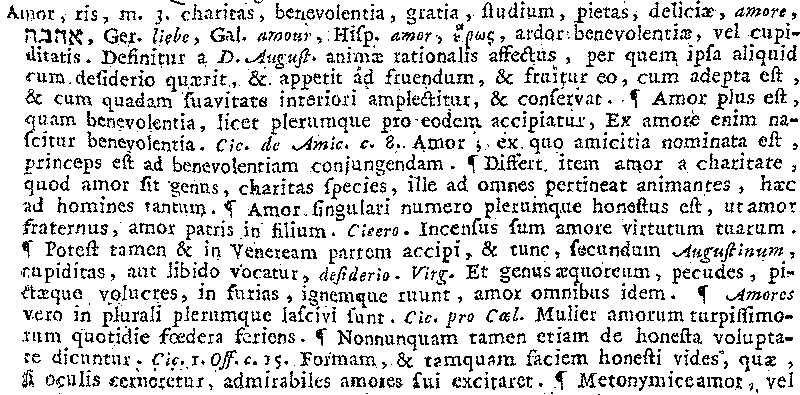
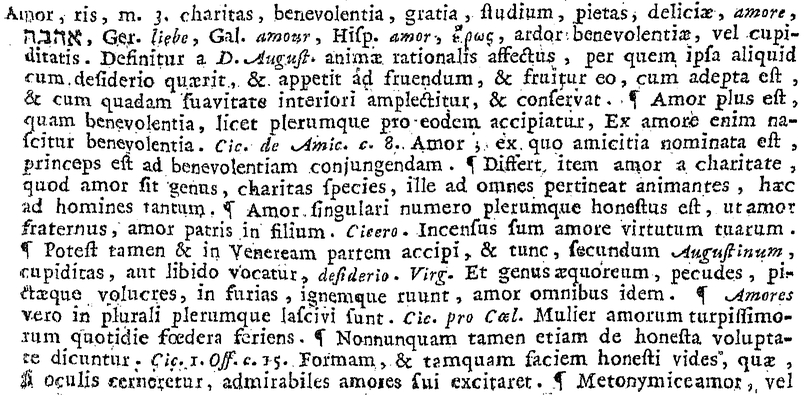
Reyher1712 v0.4 & Gallicciolli1778 v1.2"

diff --git a/_dictionaries/Gallicciolli1778.md b/_dictionaries/Gallicciolli1778.md
@@ -4,6 +4,7 @@ author: Gallicciolli
 year: 1778
 tags: [Latin]
 nickname: Gallicciolli1778
+comment: page index
 categories: [latin]
 ---
 # {{ page.title }}, {{ page.author }} ({{ page.year }})
@@ -15,7 +16,7 @@ Additional information about this edition can be found on the [Textkit website][
 
 ## Download
 
-Current version is [v1.1 (October 31, 2020)][1]. This format is only compatible with desktop GoldenDict.
+[Download][2] files compiled for dictionary shells. This format is only compatible with desktop GoldenDict.
 
 
 ## Exemplum
@@ -26,7 +27,7 @@ Current version is [v1.1 (October 31, 2020)][1]. This format is only compatible 
 # Sources
 
 1. Facciolati, Jacobo; Gallicciolli, Giovanni Battista. _Calepinus septem linguarum, hoc est Lexicon latinum variarum linguarum interpretatione adjecta, ad usum Seminarii pluries emendatum, et auctum._ Ed. novissima. Venice, 1778. URL: <https://digibug.ugr.es/handle/10481/23367>.
-1. Page index and images were extracted from the PDF published by [Le Cercle latin de la Nouvelle-France][11].
+1. Page index and images were extracted from the PDF published on [Le Cercle latin de la Nouvelle-France][11].
 
 
 ## Usage guidelines
@@ -36,11 +37,13 @@ Add file `index.html` to GoldenDict following the [guide for HTML dictionaries][
 
 ## License
 
-Unknown. Website [Le Cercle latin de la Nouvelle-France][11] does not state source of the images. Probably, the book was scanned by Universidad de Granada, so license CC BY-NC-ND 3.0 is applicable. 
+Unknown. Website [Le Cercle latin de la Nouvelle-France][11] does not state source of the images. Presumably, this book was scanned by Universidad de Granada, so license [CC BY-NC-ND 3.0][12] is applicable to the images. 
 
 
-[1]: https://github.com/nikita-moor/latin-dictionary/releases/tag/2020-10-31
-[2]: {{ site.baseurl }}{% link docs/docs.md %}
-[3]: https://github.com/nikita-moor/latin-dictionary/tree/master/{{ page.nickname }}
+[1]: https://github.com/latin-dict/{{ page.nickname }}
+[2]: https://github.com/latin-dict/{{ page.nickname }}/releases
+[3]: {{ site.baseurl }}{% link docs/docs.md %}
+[4]: {{ site.baseurl }}{% link docs/howto.md %}#html-dictionaries
 [10]: https://www.textkit.com/greek-latin-forum/viewtopic.php?t=63307
 [11]: https://cerclelatin.org/wiki/Home#ressources-didactiques_dictionnaires_j-b-gallicciolli-calepinus-septem-linguarum
+[12]: https://creativecommons.org/licenses/by-nc-nd/3.0/

diff --git a/_posts/2021-02-04-Reyher1712.md b/_posts/2021-02-04-Reyher1712.md
@@ -1,0 +1,24 @@
+---
+layout: post
+title:  "Reyher1712 v0.4 &amp; Gallicciolli1778 v1.2"
+---
+
+### [Theatrum Latino-Germanico-Graecum, Reyher (1712)][1] v0.4
+
+- **change**: finished processing articles for letter A (1st phase)
+- **fix**: errors in the resting part of the dictionary
+
+[Download][2] from GitHub.
+
+
+### [Calepinus septem linguarum, Gallicciolli (1778)][3] v1.2
+
+- **change**: images with higher quality (2 times better)
+
+[Download][4] from GitHub.
+
+
+[1]: {{ site.baseurl }}{% link _dictionaries/Reyher1712.md %}
+[2]: https://github.com/latin-dict/Reyher1712/releases/tag/v0.4
+[3]: {{ site.baseurl }}{% link _dictionaries/Gallicciolli1778.md %}
+[4]: https://github.com/latin-dict/Gallicciolli1778/releases/tag/v1.2
